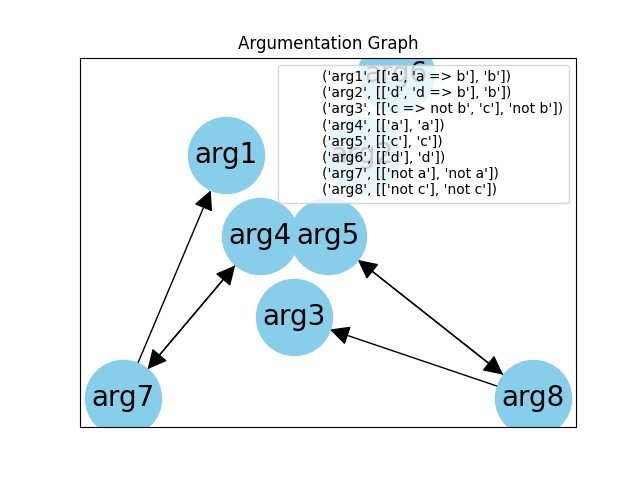
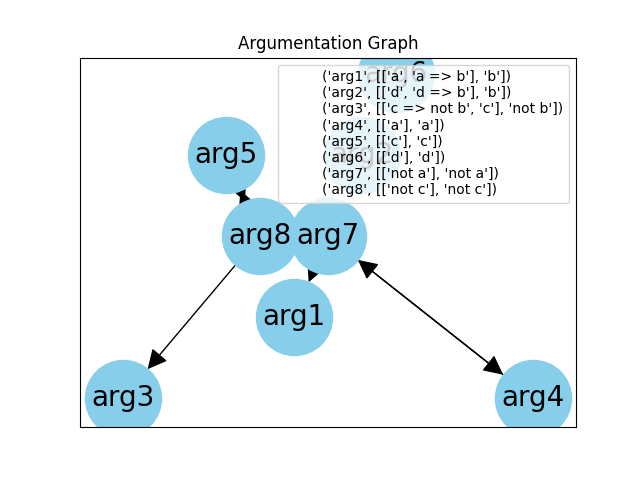
Added initial trust and different files

diff --git a/Argumentation_logic.py b/Argumentation_logic.py
@@ -2,8 +2,8 @@ import yaml
 import ttg
 from itertools import chain, combinations
 import networkx as nx
-import matplotlib.pyplot as plt
-from Argumentation_Builder import ArgumentationFramework
+
+
 
 # Load your YAML data (replace 'your_yaml_file.yaml' with your actual file)
 def load_yaml(file_path):
@@ -39,9 +39,6 @@ def create_arguments(file):
 
     # build truth table
     truth_table = ttg.Truths(atoms, prop_expr, ints=False).as_pandas 
-    print("Truth-Table:")
-    print(truth_table)
-    print()
 
     #check truth for statement combinations
     support_candidates = []
@@ -51,9 +48,6 @@ def create_arguments(file):
             if b:
                 support_candidates.append(statements) 
                 break
-    print("support_candidates:")
-    print(*support_candidates,sep='\n')  
-    print()
 
     # 2. conclusion entailment
 
@@ -80,15 +74,9 @@ def create_arguments(file):
         for element in support:          
                 argument = [support, element]
                 argument_candidates.append(argument)
-    print("argument candidates:")   
-    print(*argument_candidates,sep='\n')
-    print()
 
     # build truth table
     truth_table_h = ttg.Truths(atoms_for_conclusions, prop_expr, ints=False).as_pandas 
-    print("Truth-Table with h:")
-    print(truth_table_h)
-    print()
 
     argument_candidates_final = []
     for arguments in argument_candidates:
@@ -100,9 +88,6 @@ def create_arguments(file):
         if all(conclusion_truth_values):
             argument_candidates_final.append(arguments)
 
-    print("final arg candidates:")
-    print(*argument_candidates_final,sep='\n')
-    print()
 
     # 3. Find Pairs with H minimal
     arguments_final = []
@@ -135,11 +120,8 @@ def create_arguments(file):
             if minimal:
                 arguments_final.append([supp, conc])
             
-    #arguments_final = {value[0]: key for key, value in arguments_min.items()}
 
-
-
-    print("Final arguments:")
+    print(f"Final arguments:{file[10:17]}")
     print(*arguments_final,sep='\n')
     print() 
     return arguments_final
@@ -174,58 +156,3 @@ def create_argumentation_graph(af):
     return G
     
 
-# build arguments
-arguments = create_arguments("statement_v1.yml")
-
-
-# create dictionary with numbers for argument
-argument_dict = {}
-
-for j in range(len(arguments)):
-    key_j = 'arg{}'.format(j+1)  # a string depending on j
-    argument_dict[key_j] = arguments[j]
-
-print("argument names:")
-print(argument_dict)
-print()
-
-# add Arguments to Argumentation framework
-af = ArgumentationFramework()
-for argument in argument_dict.keys():
-    af.add_argument(argument)
-
-# create attacks and add them to argumentation framework
-create_attacks(arguments, af)
-print("direct defeater attacks:")
-print(af.attacks)
-
-#create argument_graph
-argumentation_graph = create_argumentation_graph(af)
-
-# Check if a set of arguments is conflict-free
-set_arg = {"arg1", "arg2"}
-if af.is_conflict_free(set_arg):
-    print()
-    print(f"{set_arg} is conflict free")
-else:
-    print()
-    print(f"{set_arg} is not conflict free")
-
-# Check if a set of arguments is admissible
-if af.is_admissible(set_arg):
-    print()
-    print(f"{set_arg} is admissible")
-else:
-    print()
-    print(f"{set_arg} is not admissible")
-
-#show argumentation graph
-fig = plt.figure()
-pos = nx.planar_layout(argumentation_graph)#, seed=42)
-nx.draw_networkx(argumentation_graph, pos, with_labels=True, node_size=3000, node_color='skyblue',
-                  font_size=20, arrowsize=30, label=str("\n".join([str(a) for a in argument_dict.items()])))
-plt.title("Argumentation Graph")
-plt.legend(loc='best',fontsize="10", markerscale=0)
-plt.savefig('Argumentation_Graph.png')
-plt.show()
-plt.close() 

diff --git a/deception_detection.py b/deception_detection.py
@@ -1,0 +1,69 @@
+import networkx as nx
+import matplotlib.pyplot as plt
+
+from Argumentation_Builder import ArgumentationFramework
+import Argumentation_logic as arglog
+from Initial_Trust_Values import intitial_trust_values
+
+
+# build arguments
+arguments_p1 = arglog.create_arguments("statement_person1.yml")
+arguments_p2 = arglog.create_arguments("statement_person2.yml")
+
+#build initial trust values
+trust_values = intitial_trust_values("history_persons.yml")
+print(trust_values)
+
+## ToDO: automate this for more than one person
+# create dictionary with numbers for argument
+argument_dict = {}
+
+for j in range(len(arguments_p1)):
+    key_j = 'arg{}'.format(j+1)  # a string depending on j
+    argument_dict[key_j] = arguments_p1[j]
+
+print("argument names:")
+print(argument_dict)
+print()
+
+#ToDO: Add Arguments with color depending on Person
+# add Arguments to Argumentation framework
+af = ArgumentationFramework()
+for argument in argument_dict.keys():
+    af.add_argument(argument)
+
+# create attacks and add them to argumentation framework
+arglog.create_attacks(arguments_p1, af)
+print("direct defeater attacks:")
+print(af.attacks)
+
+#create argument_graph
+argumentation_graph = arglog.create_argumentation_graph(af)
+
+# Check if a set of arguments is conflict-free
+set_arg = {"arg1", "arg2"}
+if af.is_conflict_free(set_arg):
+    print()
+    print(f"{set_arg} is conflict free")
+else:
+    print()
+    print(f"{set_arg} is not conflict free")
+
+# Check if a set of arguments is admissible
+if af.is_admissible(set_arg):
+    print()
+    print(f"{set_arg} is admissible")
+else:
+    print()
+    print(f"{set_arg} is not admissible")
+
+#show argumentation graph
+fig = plt.figure()
+pos = nx.planar_layout(argumentation_graph)#, seed=42)
+nx.draw_networkx(argumentation_graph, pos, with_labels=True, node_size=3000, node_color='skyblue',
+                  font_size=20, arrowsize=30, label=str("\n".join([str(a) for a in argument_dict.items()])))
+plt.title("Argumentation Graph")
+plt.legend(loc='best',fontsize="10", markerscale=0)
+plt.savefig('Argumentation_Graph.png')
+plt.show()
+plt.close() 

diff --git a/Initial_Trust_Values.py b/Initial_Trust_Values.py
@@ -1,0 +1,14 @@
+import yaml
+import Argumentation_logic as arglog
+
+def intitial_trust_values(file_path):
+
+    with open(file_path, 'r') as file:
+        history =yaml.safe_load(file)
+    
+
+    trust_values = {}
+    for person in history.keys():
+        trust_values[person] = sum(history[person].values())/len(history[person])
+
+    return trust_values
